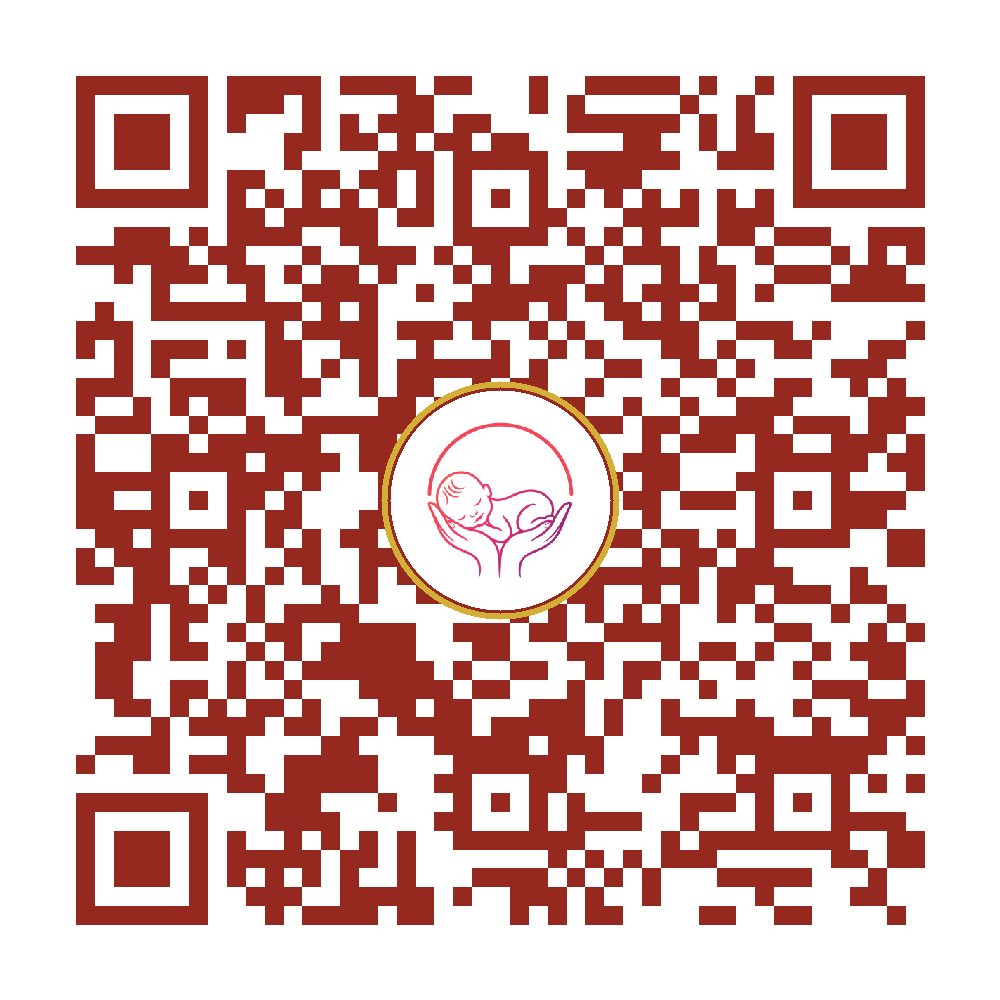
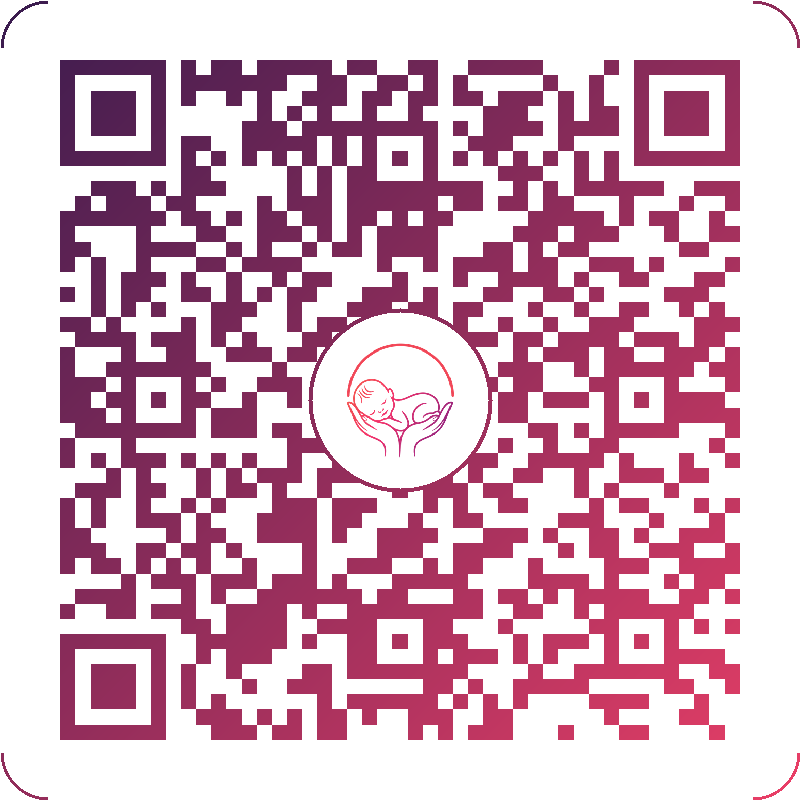
feat(qrcode): apply theme gradient (plum to rose) and rounded card border-radius with baby emblem

diff --git a/backend/src/utils/qrcode.js b/backend/src/utils/qrcode.js
@@ -5,11 +5,9 @@ const fs = require('fs');
 const QRCode = require('qrcode');
 const { PNG } = require('pngjs');
 
-// Luxury CIIM Palette: Royal Crimson & Polished Gold
-const THEME_DARK = '#96291F'; // CIIM Deep Crimson
-const THEME_LIGHT = '#FFFFFF';
-const COLOR_CRIMSON = [150, 41, 31, 255]; // #96291F
-const COLOR_GOLD = [212, 175, 55, 255];   // #D4AF37 Polished Metallic Gold
+// Theme Gradient: Deep Royal Plum (#381b4e) to Signature Vibrant Rose (#eb3f67)
+const COLOR_1 = { r: 56, g: 27, b: 78 };   // #381b4e
+const COLOR_2 = { r: 235, g: 63, b: 103 }; // #eb3f67
 const COLOR_WHITE = [255, 255, 255, 255];
 
 let cachedLogo = null;
@@ -29,13 +27,23 @@ function loadLogo() {
 }
 
 /**
- * Generates an ultra-premium standalone Royal Crimson & Gold themed QR code.
- * Features:
- *  - CIIM Crimson data modules (#96291F)
- *  - High-contrast precision finder eyes for 100% camera scanning
- *  - Central circular medallion with polished Gold (#D4AF37) and Crimson hairline bezel rings
- *  - Official Prashanth baby emblem centered inside the medallion
- *  - Error Correction Level H (30% redundancy)
+ * Evaluates the 135-degree diagonal theme gradient at pixel (x, y).
+ */
+function getGradientColor(x, y, width) {
+  const t = Math.max(0, Math.min(1, (x + y) / (2 * width)));
+  const r = Math.round((1 - t) * COLOR_1.r + t * COLOR_2.r);
+  const g = Math.round((1 - t) * COLOR_1.g + t * COLOR_2.g);
+  const b = Math.round((1 - t) * COLOR_1.b + t * COLOR_2.b);
+  return [r, g, b, 255];
+}
+
+/**
+ * Generates an ultra-premium standalone themed QR code with:
+ *  - Smooth 135° diagonal color gradient using the theme's two main colors (#381b4e to #eb3f67)
+ *  - Modern squircle card border-radius with fine hairline gradient rim
+ *  - High-contrast precision finder eyes
+ *  - Circular center medallion with gradient bezel ring and Prashanth baby emblem
+ *  - Error Correction Level H (30% redundancy) for 100% reliable camera scanning
  *
  * @param {string} text - URL or data to encode
  * @param {object} [options]
@@ -44,70 +52,101 @@ function loadLogo() {
  */
 async function generateQrPngBuffer(text, options = {}) {
   const width = options.width || 800;
+  const margin = 4;
 
-  // 1. Generate high-contrast themed QR code with Error Correction Level H
-  const qrBuffer = await QRCode.toBuffer(text, {
-    type: 'png',
-    errorCorrectionLevel: 'H',
-    width,
-    margin: 4,
-    color: {
-      dark: THEME_DARK,
-      light: THEME_LIGHT,
-    },
-  });
+  const qrData = QRCode.create(text, { errorCorrectionLevel: 'H' });
+  const modCount = qrData.modules.size;
+  const totalMods = modCount + margin * 2;
+  const modSize = width / totalMods;
 
-  const logo = loadLogo();
-  if (!logo) {
-    return qrBuffer;
+  const png = new PNG({ width, height: width });
+  png.data.fill(255);
+
+  function setPixel(x, y, color) {
+    if (x < 0 || x >= width || y < 0 || y >= width) return;
+    const idx = (width * y + x) << 2;
+    png.data[idx] = color[0];
+    png.data[idx + 1] = color[1];
+    png.data[idx + 2] = color[2];
+    png.data[idx + 3] = color[3];
   }
 
-  try {
-    const qr = PNG.sync.read(qrBuffer);
+  function isFinder(r, c) {
+    if (r < 7 && c < 7) return true;
+    if (r < 7 && c >= modCount - 7) return true;
+    if (r >= modCount - 7 && c < 7) return true;
+    return false;
+  }
 
-    // Center circular badge: 22% diameter (safely within 30% EC tolerance)
-    const badgeSize = Math.floor(width * 0.22);
-    const badgeRadius = Math.floor(badgeSize / 2);
-    const centerX = Math.floor(width / 2);
-    const centerY = Math.floor(width / 2);
-
-    const goldRingWidth = Math.max(3, Math.floor(width * 0.006));
-    const crimsonRingWidth = Math.max(2, Math.floor(width * 0.003));
-
-    // 2. Draw pristine white medallion disc with double Gold & Crimson bezel
-    for (let y = centerY - badgeRadius - goldRingWidth - crimsonRingWidth - 1; y <= centerY + badgeRadius + goldRingWidth + crimsonRingWidth + 1; y++) {
-      for (let x = centerX - badgeRadius - goldRingWidth - crimsonRingWidth - 1; x <= centerX + badgeRadius + goldRingWidth + crimsonRingWidth + 1; x++) {
-        if (x < 0 || x >= width || y < 0 || y >= width) continue;
-
-        const dist = Math.hypot(x - centerX, y - centerY);
-        const idx = (width * y + x) << 2;
-
-        if (dist <= badgeRadius) {
-          // Pure white background inside circular medallion
-          qr.data[idx] = COLOR_WHITE[0];
-          qr.data[idx + 1] = COLOR_WHITE[1];
-          qr.data[idx + 2] = COLOR_WHITE[2];
-          qr.data[idx + 3] = COLOR_WHITE[3];
-        } else if (dist <= badgeRadius + crimsonRingWidth) {
-          // Fine Crimson inner accent ring
-          qr.data[idx] = COLOR_CRIMSON[0];
-          qr.data[idx + 1] = COLOR_CRIMSON[1];
-          qr.data[idx + 2] = COLOR_CRIMSON[2];
-          qr.data[idx + 3] = COLOR_CRIMSON[3];
-        } else if (dist <= badgeRadius + crimsonRingWidth + goldRingWidth) {
-          // Polished Gold outer bezel ring
-          qr.data[idx] = COLOR_GOLD[0];
-          qr.data[idx + 1] = COLOR_GOLD[1];
-          qr.data[idx + 2] = COLOR_GOLD[2];
-          qr.data[idx + 3] = COLOR_GOLD[3];
+  // 1. Draw data modules in smooth theme gradient
+  for (let r = 0; r < modCount; r++) {
+    for (let c = 0; c < modCount; c++) {
+      if (isFinder(r, c)) continue;
+      if (qrData.modules.get(r, c)) {
+        const sX = Math.round((c + margin) * modSize);
+        const eX = Math.round((c + margin + 1) * modSize);
+        const sY = Math.round((r + margin) * modSize);
+        const eY = Math.round((r + margin + 1) * modSize);
+        for (let y = sY; y < eY; y++) {
+          for (let x = sX; x < eX; x++) {
+            setPixel(x, y, getGradientColor(x, y, width));
+          }
         }
       }
     }
+  }
 
-    // 3. Composite Prashanth baby emblem with smooth alpha blending
-    const targetSize = Math.floor(badgeSize * 0.82);
-    const startX = centerX - Math.floor(targetSize / 2);
-    const startY = centerY - Math.floor(targetSize / 2);
+  // 2. Draw Finders with matching gradient
+  const finders = [
+    { r: 0, c: 0 },
+    { r: 0, c: modCount - 7 },
+    { r: modCount - 7, c: 0 },
+  ];
+
+  for (const f of finders) {
+    for (let fr = 0; fr < 7; fr++) {
+      for (let fc = 0; fc < 7; fc++) {
+        const isOuter = fr === 0 || fr === 6 || fc === 0 || fc === 6;
+        const isPupil = fr >= 2 && fr <= 4 && fc >= 2 && fc <= 4;
+        const sX = Math.round((f.c + fc + margin) * modSize);
+        const eX = Math.round((f.c + fc + margin + 1) * modSize);
+        const sY = Math.round((f.r + fr + margin) * modSize);
+        const eY = Math.round((f.r + fr + margin + 1) * modSize);
+
+        if (isOuter || isPupil) {
+          for (let y = sY; y < eY; y++) {
+            for (let x = sX; x < eX; x++) {
+              setPixel(x, y, getGradientColor(x, y, width));
+            }
+          }
+        }
+      }
+    }
+  }
+
+  // 3. Center Medallion with Gradient Bezel Ring
+  const centerX = width / 2;
+  const centerY = width / 2;
+  const badgeRadius = Math.floor(width * 0.11);
+  const ringWidth = Math.max(3, Math.floor(width * 0.006));
+
+  for (let y = centerY - badgeRadius - ringWidth - 1; y <= centerY + badgeRadius + ringWidth + 1; y++) {
+    for (let x = centerX - badgeRadius - ringWidth - 1; x <= centerX + badgeRadius + ringWidth + 1; x++) {
+      const dist = Math.hypot(x - centerX, y - centerY);
+      if (dist <= badgeRadius) {
+        setPixel(x, y, COLOR_WHITE);
+      } else if (dist <= badgeRadius + ringWidth) {
+        setPixel(x, y, getGradientColor(x, y, width));
+      }
+    }
+  }
+
+  // 4. Composite Prashanth baby emblem
+  const logo = loadLogo();
+  if (logo) {
+    const targetSize = Math.floor(badgeRadius * 1.5);
+    const startX = Math.round(centerX - targetSize / 2);
+    const startY = Math.round(centerY - targetSize / 2);
 
     for (let ly = 0; ly < targetSize; ly++) {
       for (let lx = 0; lx < targetSize; lx++) {
@@ -122,18 +161,44 @@ async function generateQrPngBuffer(text, options = {}) {
         const alpha = logo.data[srcIdx + 3] / 255;
         if (alpha > 0.04) {
           const destIdx = (width * destY + destX) << 2;
-          qr.data[destIdx] = Math.round(logo.data[srcIdx] * alpha + 255 * (1 - alpha));
-          qr.data[destIdx + 1] = Math.round(logo.data[srcIdx + 1] * alpha + 255 * (1 - alpha));
-          qr.data[destIdx + 2] = Math.round(logo.data[srcIdx + 2] * alpha + 255 * (1 - alpha));
-          qr.data[destIdx + 3] = 255;
+          png.data[destIdx] = Math.round(logo.data[srcIdx] * alpha + 255 * (1 - alpha));
+          png.data[destIdx + 1] = Math.round(logo.data[srcIdx + 1] * alpha + 255 * (1 - alpha));
+          png.data[destIdx + 2] = Math.round(logo.data[srcIdx + 2] * alpha + 255 * (1 - alpha));
+          png.data[destIdx + 3] = 255;
         }
       }
     }
-
-    return PNG.sync.write(qr);
-  } catch (err) {
-    return qrBuffer;
   }
+
+  // 5. Apply Border Radius to Card Canvas (smooth squircle card with hairline gradient border)
+  const cardRadius = Math.round(width * 0.06); // ~48px on 800px
+  const borderWidth = Math.max(2, Math.round(width * 0.004));
+
+  for (let y = 0; y < width; y++) {
+    for (let x = 0; x < width; x++) {
+      let distCorner = 0;
+      if (x < cardRadius && y < cardRadius) {
+        distCorner = Math.hypot(x - cardRadius, y - cardRadius);
+      } else if (x > width - cardRadius && y < cardRadius) {
+        distCorner = Math.hypot(x - (width - cardRadius), y - cardRadius);
+      } else if (x < cardRadius && y > width - cardRadius) {
+        distCorner = Math.hypot(x - cardRadius, y - (width - cardRadius));
+      } else if (x > width - cardRadius && y > width - cardRadius) {
+        distCorner = Math.hypot(x - (width - cardRadius), y - (width - cardRadius));
+      }
+
+      if (distCorner > cardRadius) {
+        // Outside the card: transparent
+        const idx = (width * y + x) << 2;
+        png.data[idx + 3] = 0;
+      } else if (distCorner > cardRadius - borderWidth) {
+        // Hairline card border in theme gradient
+        setPixel(x, y, getGradientColor(x, y, width));
+      }
+    }
+  }
+
+  return PNG.sync.write(png);
 }
 
 module.exports = { generateQrPngBuffer };
